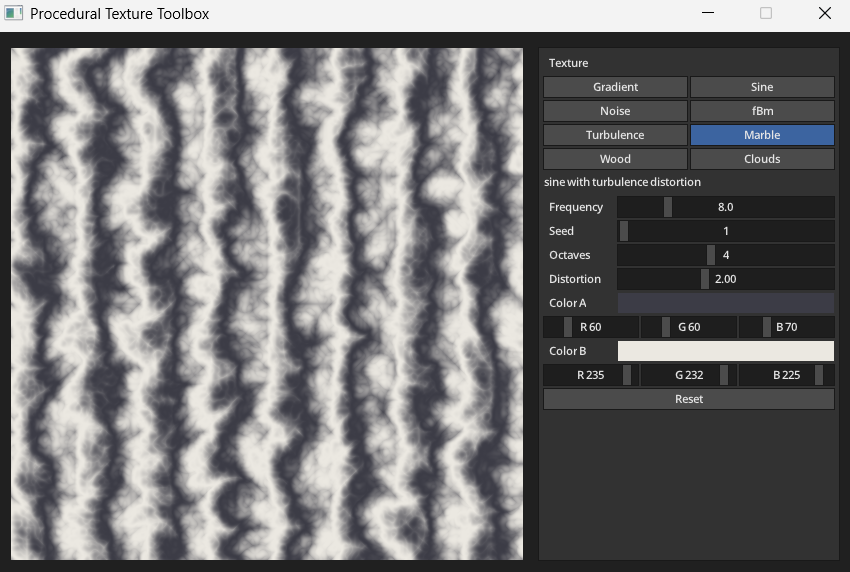
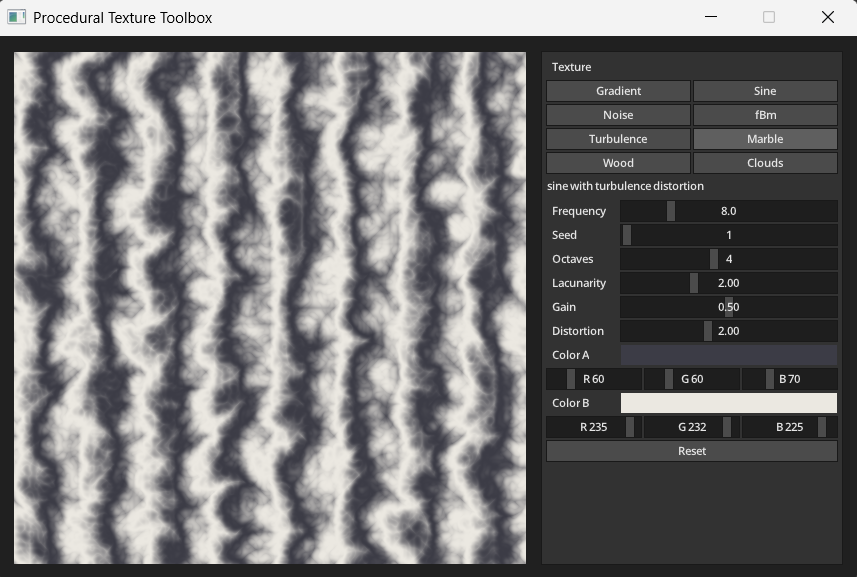
Update README and screenshots after the latest changes

diff --git a/README.md b/README.md
@@ -34,9 +34,9 @@ The textures are ordered so that each one builds on the previous ones. In the fo
 
    The same seed always produces the same noise.
 
-4. **fBm (fractal Brownian motion)**: several octaves of noise are added. Each octave doubles the frequency and halves the amplitude of the previous one, and the sum is divided by the total amplitude: `fbm = Σ 0.5^i · noise(2^i f u, 2^i f v) / Σ 0.5^i` for `i = 0 … octaves − 1`, and `t = 0.5 + 0.5 fbm`. With one octave, fBm equals the Noise texture.
+4. **fBm (fractal Brownian motion)**: several octaves of noise are added. Lacunarity controls how much the frequency increases between octaves, while gain controls how much the amplitude decreases. The default values are lacunarity 2.0 and gain 0.5, which give the original behavior of doubling the frequency and halving the amplitude at each octave. The sum is divided by the total amplitude, and `t = 0.5 + 0.5 fbm`. With one octave, fBm equals the Noise texture.
 
-5. **Turbulence**: the same octave sum as fBm, but with the absolute value of each noise octave: `t = Σ 0.5^i · |noise(2^i f u, 2^i f v)| / Σ 0.5^i`. The absolute value folds the noise at its zero crossings, which creates sharp creases.
+5. **Turbulence**: uses the same octave structure as fBm, including the lacunarity and gain controls, but takes the absolute value of each noise octave. This folds the noise around zero and creates sharper structures.
 
 6. **Marble**: the sine pattern with its phase distorted by turbulence: `t = 0.5 + 0.5 sin(2π (f u + d · turbulence))`. With distortion 0, Marble reduces to the Sine pattern.
 
@@ -65,11 +65,13 @@ I built the textures in stages, starting with simple mathematical patterns and t
 | Frequency (1–32) | Pattern frequency (sine cycles or rings) and base noise frequency | all except Gradient |
 | Seed (0–99) | Selects a different, repeatable noise pattern | Noise, fBm, Turbulence, Marble, Wood, Clouds |
 | Octaves (1–8) | Number of noise octaves | fBm, Turbulence, Marble, Wood, Clouds |
+| Lacunarity (1.0–4.0) | Frequency multiplier between successive noise octaves | fBm, Turbulence, Marble, Wood, Clouds |
+| Gain (0.1–0.9) | Amplitude multiplier between successive noise octaves | fBm, Turbulence, Marble, Wood, Clouds |
 | Distortion (0–5) | Strength of the turbulence distortion | Marble, Wood |
 | Color A / Color B | Colors for `t = 0` and `t = 1`, set with R, G, B sliders | all |
 | Reset | Restores the default parameters of the current texture | all |
 
-Only the controls used by the selected texture are shown, and the panel displays a short formula or description of that texture. The default parameters are frequency 8, seed 1, octaves 4 and distortion 2, with colors chosen per texture.
+Only the controls used by the selected texture are shown, and the panel displays a short formula or description of that texture. The default parameters are frequency 8, seed 1, octaves 4, lacunarity 2.0, gain 0.5 and distortion 2, with colors chosen per texture.
 
 ## Build and Run
 
@@ -129,12 +131,14 @@ The eight textures with their default parameters:
 
 ## Development and Refinement Process
 
-Once the main implementation was working, I went through the project again by rebuilding it, running the correctness checks, and comparing the texture outputs visually.
+After the main implementation was working, I went back through the project by rebuilding it, running the checks and comparing the texture outputs visually.
 
 During this review:
-- I found that fBm and turbulence could produce NaN when called with zero octaves, so I added a guard for that edge case and corresponding checks.
-- The default Clouds texture looked too washed out, so I adjusted its contrast mapping and updated the related check and documentation.
-- I also tested a different noise approach for the Wood distortion. It did not improve the visual result, so I reverted that experiment instead of keeping the change.
+- I found that fBm and turbulence could produce NaN when called with zero octaves, so I added a guard for that case and corresponding checks.
+- The default Clouds texture looked too washed out, so I increased the contrast around the midpoint and updated the related check.
+- I tested a different noise approach for the Wood distortion locally. It did not improve the visual result, so I reverted that experiment before committing it.
+- I later exposed the lacunarity and gain values that were previously fixed inside fBm and turbulence. I added UI controls for both and compared their effect on fBm, Turbulence, Clouds and Marble.
+- After the visual comparison, I kept the original default values of lacunarity 2.0 and gain 0.5 because they gave the most balanced default result, while keeping the controls available for experimentation.
 
 ## AI-Assisted Development
 
